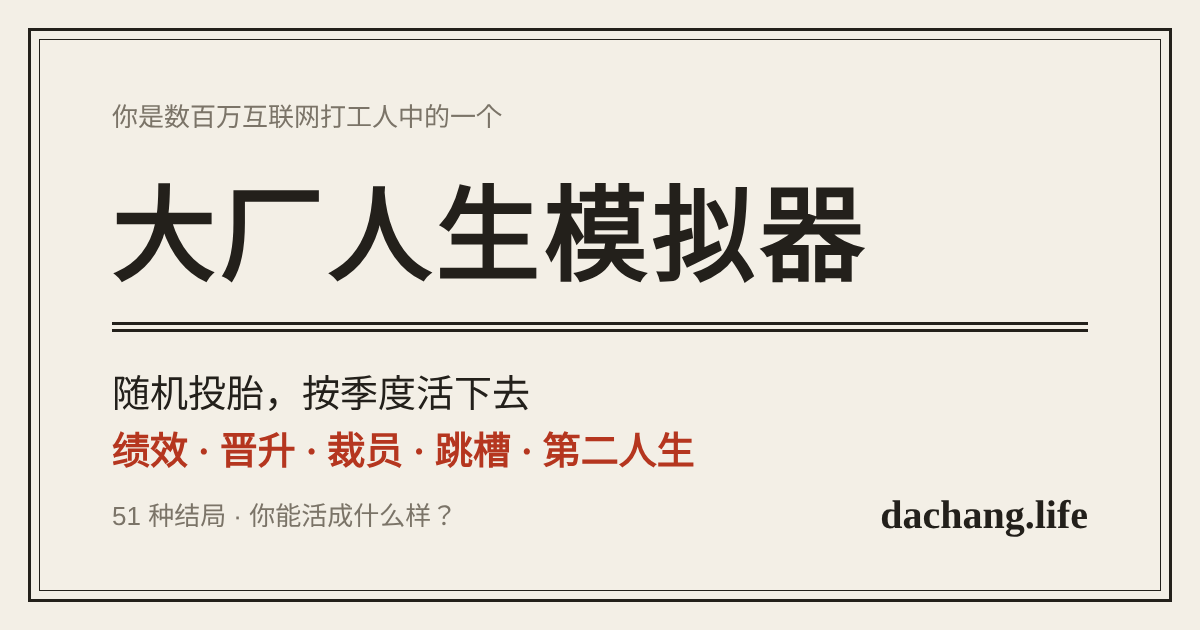
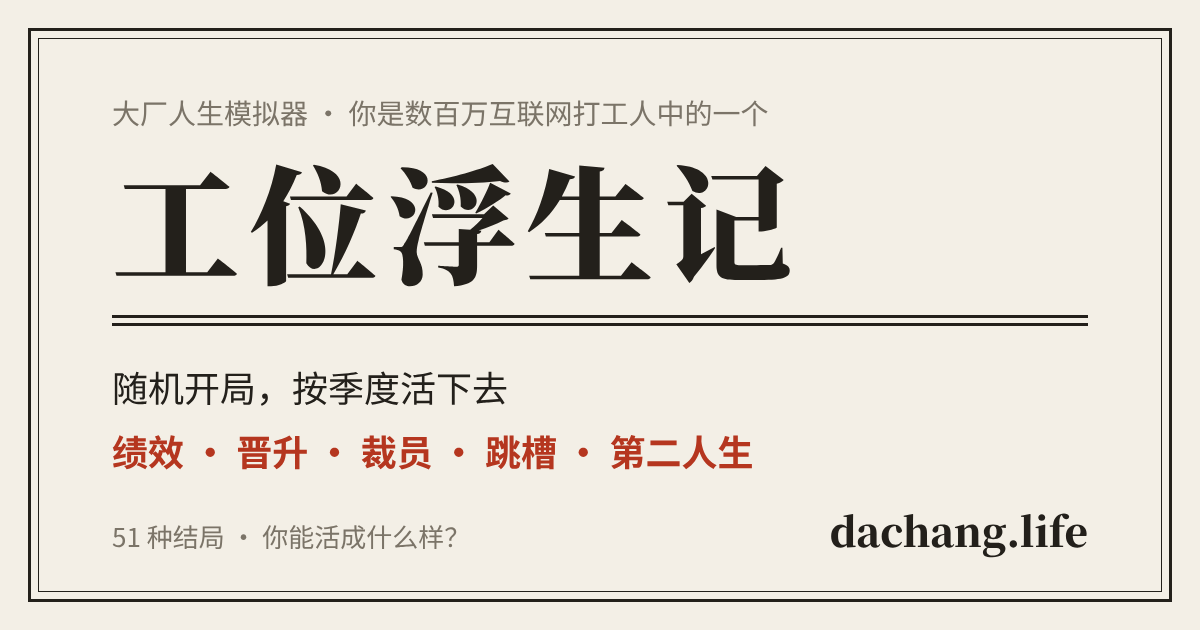
网页版改名：大标题「工位浮生记」，副标题「大厂人生模拟器」；更新链接预览图
Claude-Session: https://claude.ai/code/session_01DCA4yJaidNLEo9Dxz2Ctt6

diff --git a/index.html b/index.html
@@ -3,18 +3,18 @@
 <head>
 <meta charset="utf-8">
 <meta name="viewport" content="width=device-width,initial-scale=1,viewport-fit=cover">
-<title>大厂人生模拟器</title>
+<title>工位浮生记 · 大厂人生模拟器</title>
 <meta name="description" content="你是数百万互联网打工人中的一个。随机投胎到一家大厂，按季度活下去：绩效、晋升、裁员、跳槽、第二人生，51 种结局。">
 <meta property="og:type" content="website">
-<meta property="og:site_name" content="大厂人生模拟器">
-<meta property="og:title" content="大厂人生模拟器：你能在大厂活成什么样？">
+<meta property="og:site_name" content="工位浮生记">
+<meta property="og:title" content="工位浮生记｜大厂人生模拟器：你能在大厂活成什么样？">
 <meta property="og:description" content="随机投胎到一家大厂，按季度活下去。绩效、晋升、裁员、跳槽、第二人生，51 种结局等你解锁。">
 <meta property="og:url" content="https://dachang.life/">
 <meta property="og:image" content="https://dachang.life/og.png">
 <meta property="og:image:width" content="1200">
 <meta property="og:image:height" content="630">
 <meta name="twitter:card" content="summary_large_image">
-<meta name="twitter:title" content="大厂人生模拟器：你能在大厂活成什么样？">
+<meta name="twitter:title" content="工位浮生记｜大厂人生模拟器：你能在大厂活成什么样？">
 <meta name="twitter:image" content="https://dachang.life/og.png">
 <link rel="preconnect" href="https://fonts.googleapis.com">
 <link href="https://fonts.googleapis.com/css2?family=Noto+Serif+SC:wght@500;700;900&display=swap" rel="stylesheet">
@@ -38,6 +38,7 @@ h1{font-family:var(--serif);font-weight:900;font-size:34px;letter-spacing:.04em;
 .startbar .btn{flex:1}
 @media(max-width:560px){#start{padding-top:calc(14px + env(safe-area-inset-top))}h1{font-size:28px}.masthead{margin-bottom:14px}.odds{margin-top:10px}.odds b{font-size:24px}.card{padding:12px 14px;margin:10px 0 18px}.row{padding:5px 0}}
 .masthead{border-bottom:3px double var(--ink);padding-bottom:14px;margin-bottom:28px}
+.masthead .kicker{font-size:13px;letter-spacing:4px;color:var(--mute);margin-bottom:4px}
 .odds{font-family:var(--serif);font-size:15px;margin:24px 0 6px;color:var(--mute)}
 .odds b{font-size:30px;color:var(--ink);font-weight:900;letter-spacing:.02em}
 .card{background:#fbf9f4;border:1.5px solid var(--ink);box-shadow:5px 5px 0 var(--ink);padding:18px 20px;margin:14px 0 26px}
@@ -218,7 +219,8 @@ h1{font-family:var(--serif);font-weight:900;font-size:34px;letter-spacing:.04em;
 <div id="app">
   <section id="start">
     <div class="masthead">
-      <h1>大厂人生模拟器</h1>
+      <div class="kicker">大厂人生模拟器</div>
+      <h1>工位浮生记</h1>
       <div class="sub">你是数百万互联网打工人中的一个 · 从入职那天开始，按季度活下去</div>
     </div>
     <div class="chal" id="chal" hidden></div>
@@ -3732,7 +3734,7 @@ function showLives(){
 }
 function shareText(){
   const e = ENDINGS[s.ending];
-  return `${s.daily ? `【今日开局 · ${dailyLabel(s.daily)}】` : ''}我在《大厂人生模拟器》里活了一次：${s.edu.n}出身，在${s.comp.n}做${s.role.n}，${s.age} 岁迎来结局【${e.n}】。超过了 ${s.pct}% 的打工人，职场人格是「${(s.persona||persona()).n}」，称号：${titles().join('、')}。${s.sting || stingLine()}${challengeLine()}${cohortSummary()}\n“${s.quote}”\n\n同一个开局，你能活成什么样？${SITE}/?${challengeQuery()}`;
+  return `${s.daily ? `【今日开局 · ${dailyLabel(s.daily)}】` : ''}我在《工位浮生记》里活了一次：${s.edu.n}出身，在${s.comp.n}做${s.role.n}，${s.age} 岁迎来结局【${e.n}】。超过了 ${s.pct}% 的打工人，职场人格是「${(s.persona||persona()).n}」，称号：${titles().join('、')}。${s.sting || stingLine()}${challengeLine()}${cohortSummary()}\n“${s.quote}”\n\n同一个开局，你能活成什么样？${SITE}/?${challengeQuery()}`;
 }
 function wrap(x, text, maxW){
   const lines = []; let cur = '';
@@ -3748,7 +3750,7 @@ async function showShare(){
   const ink = '#23201b', mute = '#7b7468', col = {good:'#3f6b47',bad:'#b5361f',mid:'#2f5576',hidden:'#a8741a'}[e.t];
   x.fillStyle = '#f3efe6'; x.fillRect(0,0,W,H);
   let y = 96;
-  x.fillStyle = ink; x.font = `900 30px ${serif}`; x.fillText('大厂人生模拟器', P, y);
+  x.fillStyle = ink; x.font = `900 30px ${serif}`; x.fillText('工位浮生记', P, y);
   x.fillStyle = mute; x.font = `15px ${sans}`; x.textAlign = 'right'; x.fillText(`${s.year} 年 · ${s.age} 岁`, W-P, y); x.textAlign = 'left';
   y += 22; x.fillStyle = ink; x.fillRect(P, y, W-2*P, 2);
   const er = endRarity(), pe = s.persona || persona(), sting = s.sting || stingLine();
@@ -3781,7 +3783,7 @@ async function showShare(){
   x.font = `700 28px ${serif}`; x.textAlign = 'center';
   wrap(x, `“${s.quote}”`, W-2*P-40).forEach(l => { y += 14; x.fillText(l, W/2, y+14); y += 30; });
   const H2 = y + 150;
-  x.font = `15px ${sans}`; x.fillStyle = mute; x.fillText('你也来活一次 · 大厂人生模拟器', W/2, H2-100);
+  x.font = `15px ${sans}`; x.fillStyle = mute; x.fillText('你也来活一次 · 工位浮生记', W/2, H2-100);
   x.font = `700 26px ${serif}`; x.fillStyle = ink; x.fillText('dachang.life', W/2, H2-66); x.textAlign = 'left';
   const out = document.createElement('canvas'); out.width = W*2; out.height = H2*2;
   const o = out.getContext('2d'); o.drawImage(cv, 0, 0, W*2, H2*2, 0, 0, W*2, H2*2); o.scale(2,2);
